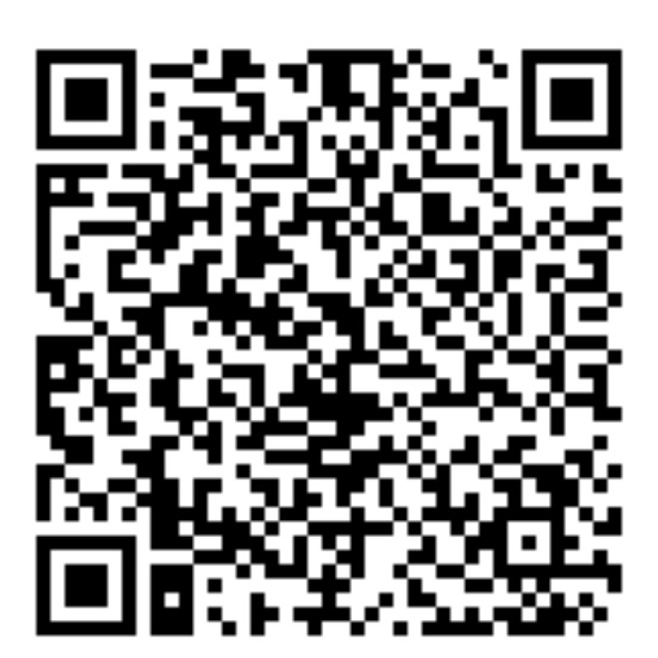
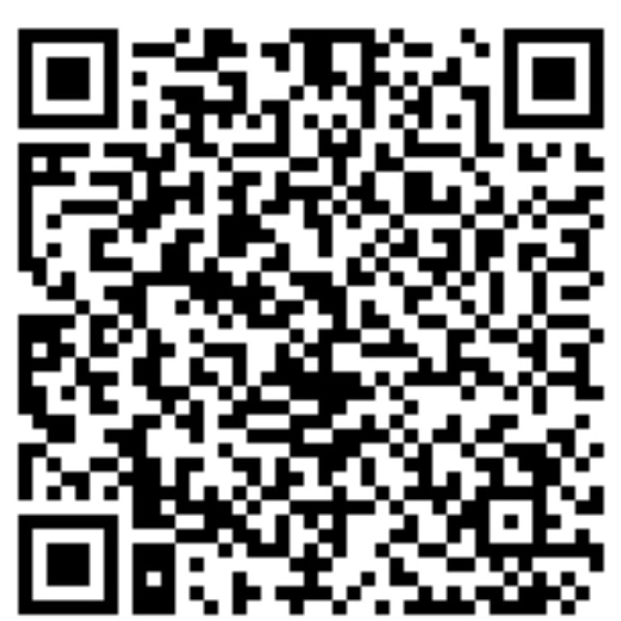
version 1.213

diff --git a/scripts/crop-payment-qr.js b/scripts/crop-payment-qr.js
@@ -6,46 +6,38 @@ const assets = 'C:/Users/Intel/.cursor/projects/c-Users-Intel-OneDrive-RESTO-FAD
 const outDir = path.join(__dirname, '..', 'client', 'public', 'payment-qr');
 fs.mkdirSync(outDir, { recursive: true });
 
-const map = {
+const files = {
   plin: 'c__Users_Intel_AppData_Roaming_Cursor_User_workspaceStorage_57ce5a0a47522458c5a103eba050b823_images_image-7a03be8d-d071-4ab2-a496-c497e78ee2ac.png',
   dale: 'c__Users_Intel_AppData_Roaming_Cursor_User_workspaceStorage_57ce5a0a47522458c5a103eba050b823_images_image-13f217b6-8e98-4c02-817e-1ee4a1ae4e03.png',
   yape: 'c__Users_Intel_AppData_Roaming_Cursor_User_workspaceStorage_57ce5a0a47522458c5a103eba050b823_images_image-c2fa6435-2b33-4bd3-8cb6-3a4ac9bd4053.png',
 };
 
+const crops = {
+  // Solo el cuadrado del QR (sin logos ni textos)
+  plin: (w, h) => {
+    const size = Math.floor(Math.min(w, h) * 0.68);
+    return { x: Math.floor((w - size) / 2), y: Math.floor(h * 0.34), size };
+  },
+  dale: (w, h) => {
+    const size = Math.floor(Math.min(w * 0.88, h * 0.34));
+    return { x: Math.floor((w - size) / 2), y: Math.floor(h * 0.22), size };
+  },
+  yape: (w, h) => {
+    const size = Math.floor(Math.min(w, h) * 0.5);
+    return { x: Math.floor((w - size) / 2), y: Math.floor(h * 0.23), size };
+  },
+};
+
 (async () => {
-  const read = typeof Jimp.read === 'function' ? Jimp.read.bind(Jimp) : Jimp.default?.read?.bind(Jimp.default);
-  if (!read) throw new Error('Jimp.read not found');
-  for (const [name, file] of Object.entries(map)) {
-    const img = await read(path.join(assets, file));
+  for (const [name, file] of Object.entries(files)) {
+    const img = await Jimp.read(path.join(assets, file));
     const w = img.bitmap.width;
     const h = img.bitmap.height;
-    console.log(name, w, 'x', h);
-
-    const writeFn = img.writeAsync ? 'writeAsync' : 'write';
-    await img.clone()[writeFn](path.join(outDir, `${name}-full.png`));
-
-    let x;
-    let y;
-    let size;
-    if (name === 'plin') {
-      size = Math.floor(Math.min(w, h) * 0.72);
-      x = Math.floor((w - size) / 2);
-      y = Math.floor(h * 0.32);
-    } else if (name === 'dale') {
-      size = Math.floor(Math.min(w, h) * 0.48);
-      x = Math.floor((w - size) / 2);
-      y = Math.floor(h * 0.22);
-    } else {
-      size = Math.floor(Math.min(w, h) * 0.62);
-      x = Math.floor((w - size) / 2);
-      y = Math.floor(h * 0.18);
-    }
-    size = Math.min(size, w - x, h - y);
-    const cropped = img.clone().crop(x, y, size, size);
-    await cropped[writeFn](path.join(outDir, `${name}.png`));
-    console.log('wrote', name, size);
+    const { x, y, size } = crops[name](w, h);
+    const s = Math.min(size, w - x, h - y);
+    await img.clone().crop(x, y, s, s).writeAsync(path.join(outDir, `${name}.png`));
+    console.log(name, s, 'at', x, y, 'from', w, 'x', h);
   }
-  console.log('out', fs.readdirSync(outDir));
 })().catch((e) => {
   console.error(e);
   process.exit(1);

diff --git a/client/src/pages/admin/MiRestaurant.jsx b/client/src/pages/admin/MiRestaurant.jsx
@@ -20,9 +20,9 @@ const PAGO_USO_WHATSAPP_SUPPORT = '934029719';
 const PAGO_USO_WHATSAPP_URL = `https://wa.me/51${PAGO_USO_WHATSAPP_SUPPORT}?text=${encodeURIComponent('Hola, necesito soporte sobre el pago por uso del sistema.')}`;
 
 const PLAN_PAYMENT_QRS = [
-  { id: 'yape', label: 'Yape', color: '#7c3aed', src: '/payment-qr/yape-full.png', srcCrop: '/payment-qr/yape.png' },
-  { id: 'plin', label: 'Plin', color: '#06b6d4', src: '/payment-qr/plin-full.png', srcCrop: '/payment-qr/plin.png' },
-  { id: 'dale', label: 'Dale', color: '#2563eb', src: '/payment-qr/dale-full.png', srcCrop: '/payment-qr/dale.png' },
+  { id: 'yape', label: 'Yape', color: '#7c3aed', src: '/payment-qr/yape.png' },
+  { id: 'plin', label: 'Plin', color: '#06b6d4', src: '/payment-qr/plin.png' },
+  { id: 'dale', label: 'Dale', color: '#2563eb', src: '/payment-qr/dale.png' },
 ];
 
 const DAYS = ['lunes', 'martes', 'miercoles', 'jueves', 'viernes', 'sabado', 'domingo'];
@@ -1558,9 +1558,7 @@ export default function MiRestaurant() {
                 </strong>
                 .
               </>
-            ) : (
-              <> Luego cargue el comprobante con el monto pagado.</>
-            )}
+            ) : null}
           </p>
           <div className="grid grid-cols-1 sm:grid-cols-3 gap-4">
             {PLAN_PAYMENT_QRS.map((qr) => (
@@ -1572,16 +1570,11 @@ export default function MiRestaurant() {
                 <img
                   src={qr.src}
                   alt={`QR ${qr.label}`}
-                  className="w-full max-w-[220px] rounded-lg bg-white object-contain"
+                  className="w-full max-w-[200px] aspect-square rounded-lg bg-white object-contain p-1"
                 />
-                <p className="text-[11px] text-[var(--ui-muted)] text-center">Deyvi Renan Romero</p>
               </div>
             ))}
           </div>
-          <p className="text-xs text-[var(--ui-muted)]">
-            Estos QR son fijos (sin monto embebido). El precio del plan se configura en Plan comercial / Precio del plan
-            y se usa al cargar el comprobante.
-          </p>
           <div className="flex justify-end">
             <button type="button" className="btn-secondary text-sm" onClick={() => setShowPagarQrModal(false)}>
               Cerrar
